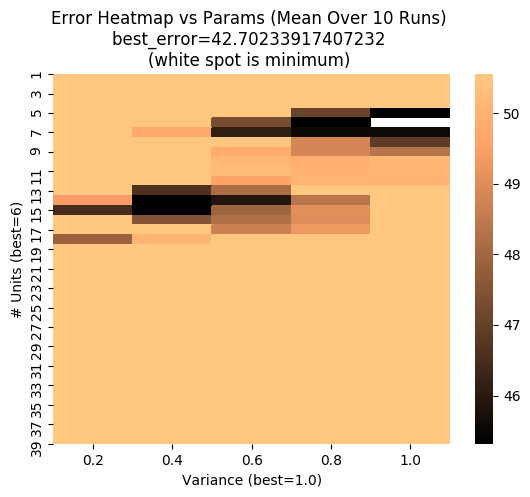
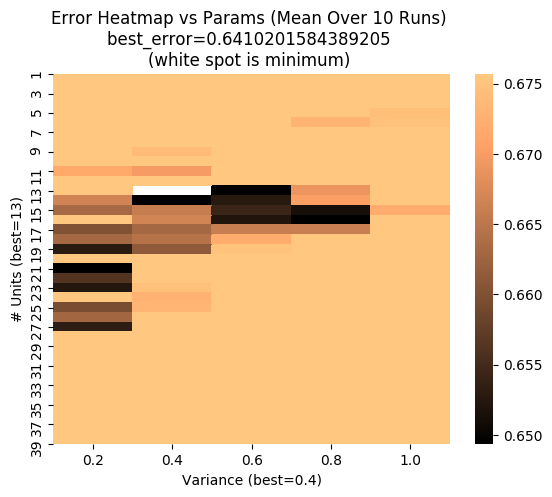
need both mse and mae

diff --git a/lab2/_3_1.py b/lab2/_3_1.py
@@ -1,6 +1,7 @@
 import numpy as np
 import matplotlib.pyplot as plt
 from sklearn.metrics.pairwise import rbf_kernel
+from sklearn.metrics import mean_squared_error, mean_absolute_error
 
 sign = lambda x: np.where(x >= 0, 1, -1)
 
@@ -65,7 +66,7 @@ class RBF_NET:
             maxDelW = 0
             for i in range(len(X)):
                 maxDelW = max(self.train_delta_single(X[i : i + 1], Y[i : i + 1], eta=eta), maxDelW)
-            new_e = self.error(X,Y)
+            new_e = self.mse(X,Y)
             if abs(old_e - new_e) < 10**-5:
                 break
             old_e = new_e
@@ -75,8 +76,11 @@ class RBF_NET:
     def predict(self, X):
         return self.activation(self.phi(X) @ self.W)
 
-    def error(self, X, Y):
-        return np.mean(np.abs((self.predict(X) - Y)))
+    def mse(self, X, Y):
+        return mean_squared_error(self.predict(X), Y)
+
+    def mae(self, X, Y):
+        return mean_absolute_error(self.predict(X), Y)
 
 
 def runWithParams(x, y, x_val, y_val, means, variance, training_method):
@@ -85,7 +89,7 @@ def runWithParams(x, y, x_val, y_val, means, variance, training_method):
     """
     n = RBF_NET(means, variance)
     n.__getattribute__(training_method)(x, y, callback=None)
-    return n.error(x_val, y_val)
+    return n.mae(x_val, y_val)
 
 
 if __name__ == "__main__":
@@ -99,7 +103,7 @@ if __name__ == "__main__":
         rbfs_variance = 0.3
         n = RBF_NET(rbfs_mean, rbfs_variance)
         n.train_batch(X, Y_SIN)
-        e = n.error(X_VAL, Y_SIN_VAL)
+        e = n.mae(X_VAL, Y_SIN_VAL)
         if len(thresholds) and e < max(thresholds):
             print(max(thresholds), "&", e, "&", hidden_num, "\\\\")
             thresholds.remove(max(thresholds))
@@ -112,7 +116,7 @@ if __name__ == "__main__":
         rbfs_variance = 0.3
         n = RBF_NET(rbfs_mean, rbfs_variance, activation=sign)
         n.train_batch(X, Y_SQUARE)
-        e = n.error(X_VAL, Y_SQUARE_VAL)
+        e = n.mae(X_VAL, Y_SQUARE_VAL)
         if len(thresholds) and e < max(thresholds):
             print(max(thresholds), "&", e, "&", hidden_num, "\\\\")
             thresholds.remove(max(thresholds))

diff --git a/lab2/_3_2.py b/lab2/_3_2.py
@@ -94,21 +94,23 @@ def findBestParams(
 if __name__ == "__main__":
 
     # 3.2.1 3.2.3
-    dat = findBestParams(X, Y_SIN, X_VAL, Y_SIN_VAL, "train_batch")
-    plt.savefig("pictures/3_2_parameter_map_batch_sin.png", bbox_inches='tight')
+    # dat = findBestParams(X, Y_SIN, X_VAL, Y_SIN_VAL, "train_batch")
+    # plt.savefig("pictures/3_2_parameter_map_batch_sin.png", bbox_inches='tight')
+    # plt.clf()
+    # dat = findBestParams(X, Y_SQUARE, X_VAL, Y_SQUARE_VAL, "train_batch")
+    # plt.savefig("pictures/3_2_parameter_map_batch_square.png", bbox_inches='tight')
+    # plt.clf()
+
+
+    dat = findBestParams(X, Y_SIN, X_VAL, Y_SIN_VAL, "train_delta_batch")
+    plt.savefig("pictures/3_2_parameter_map_delta_sin.png", bbox_inches="tight")
     plt.clf()
-    dat = findBestParams(X, Y_SQUARE, X_VAL, Y_SQUARE_VAL, "train_batch")
-    plt.savefig("pictures/3_2_parameter_map_batch_square.png", bbox_inches='tight')
+    dat = findBestParams(X, Y_SQUARE, X_VAL, Y_SQUARE_VAL, "train_delta_batch")
+    plt.savefig("pictures/3_2_parameter_map_delta_square.png", bbox_inches="tight")
     plt.clf()
 
     exit()
 
-    # dat = findBestParams(X, Y_SIN, X_VAL, Y_SIN_VAL, "train_delta_batch")
-    # plt.savefig("pictures/3_2_parameter_map_delta_sin.png", bbox_inches="tight")
-    # plt.clf()
-    # dat = findBestParams(X, Y_SQUARE, X_VAL, Y_SQUARE_VAL, "train_delta_batch")
-    # plt.savefig("pictures/3_2_parameter_map_delta_square.png", bbox_inches="tight")
-    # plt.clf()
 
     # 3.2.2 Use best params to find rate of convergence
     # etas = [0.001,0.005,0.01,0.05,0.1,0.5,1]
